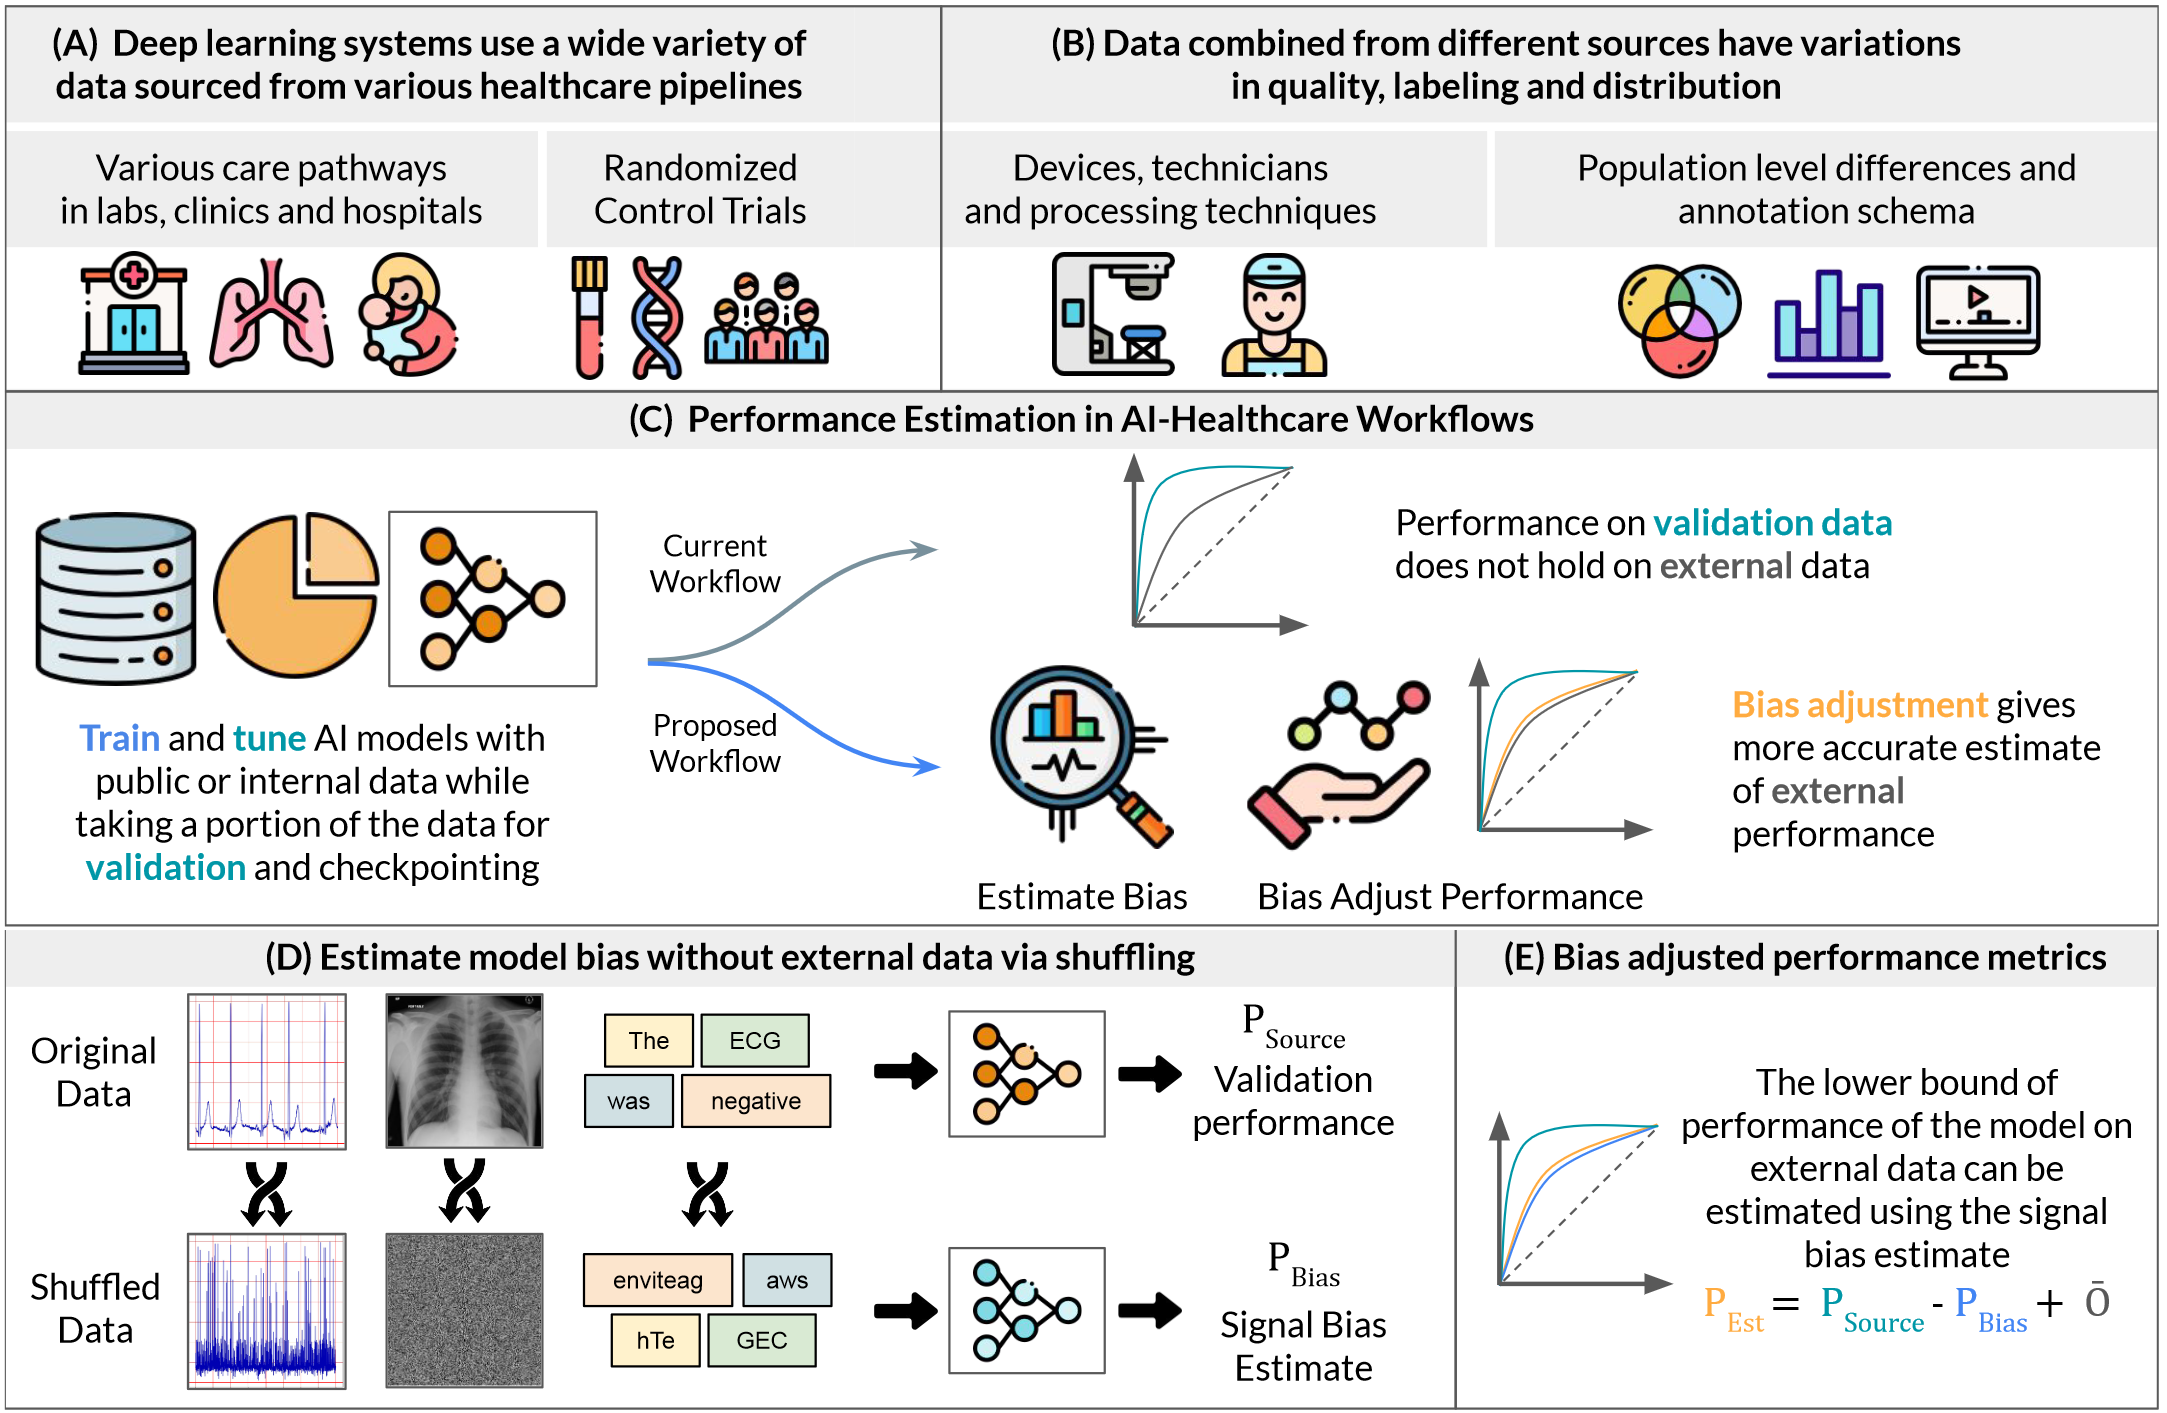
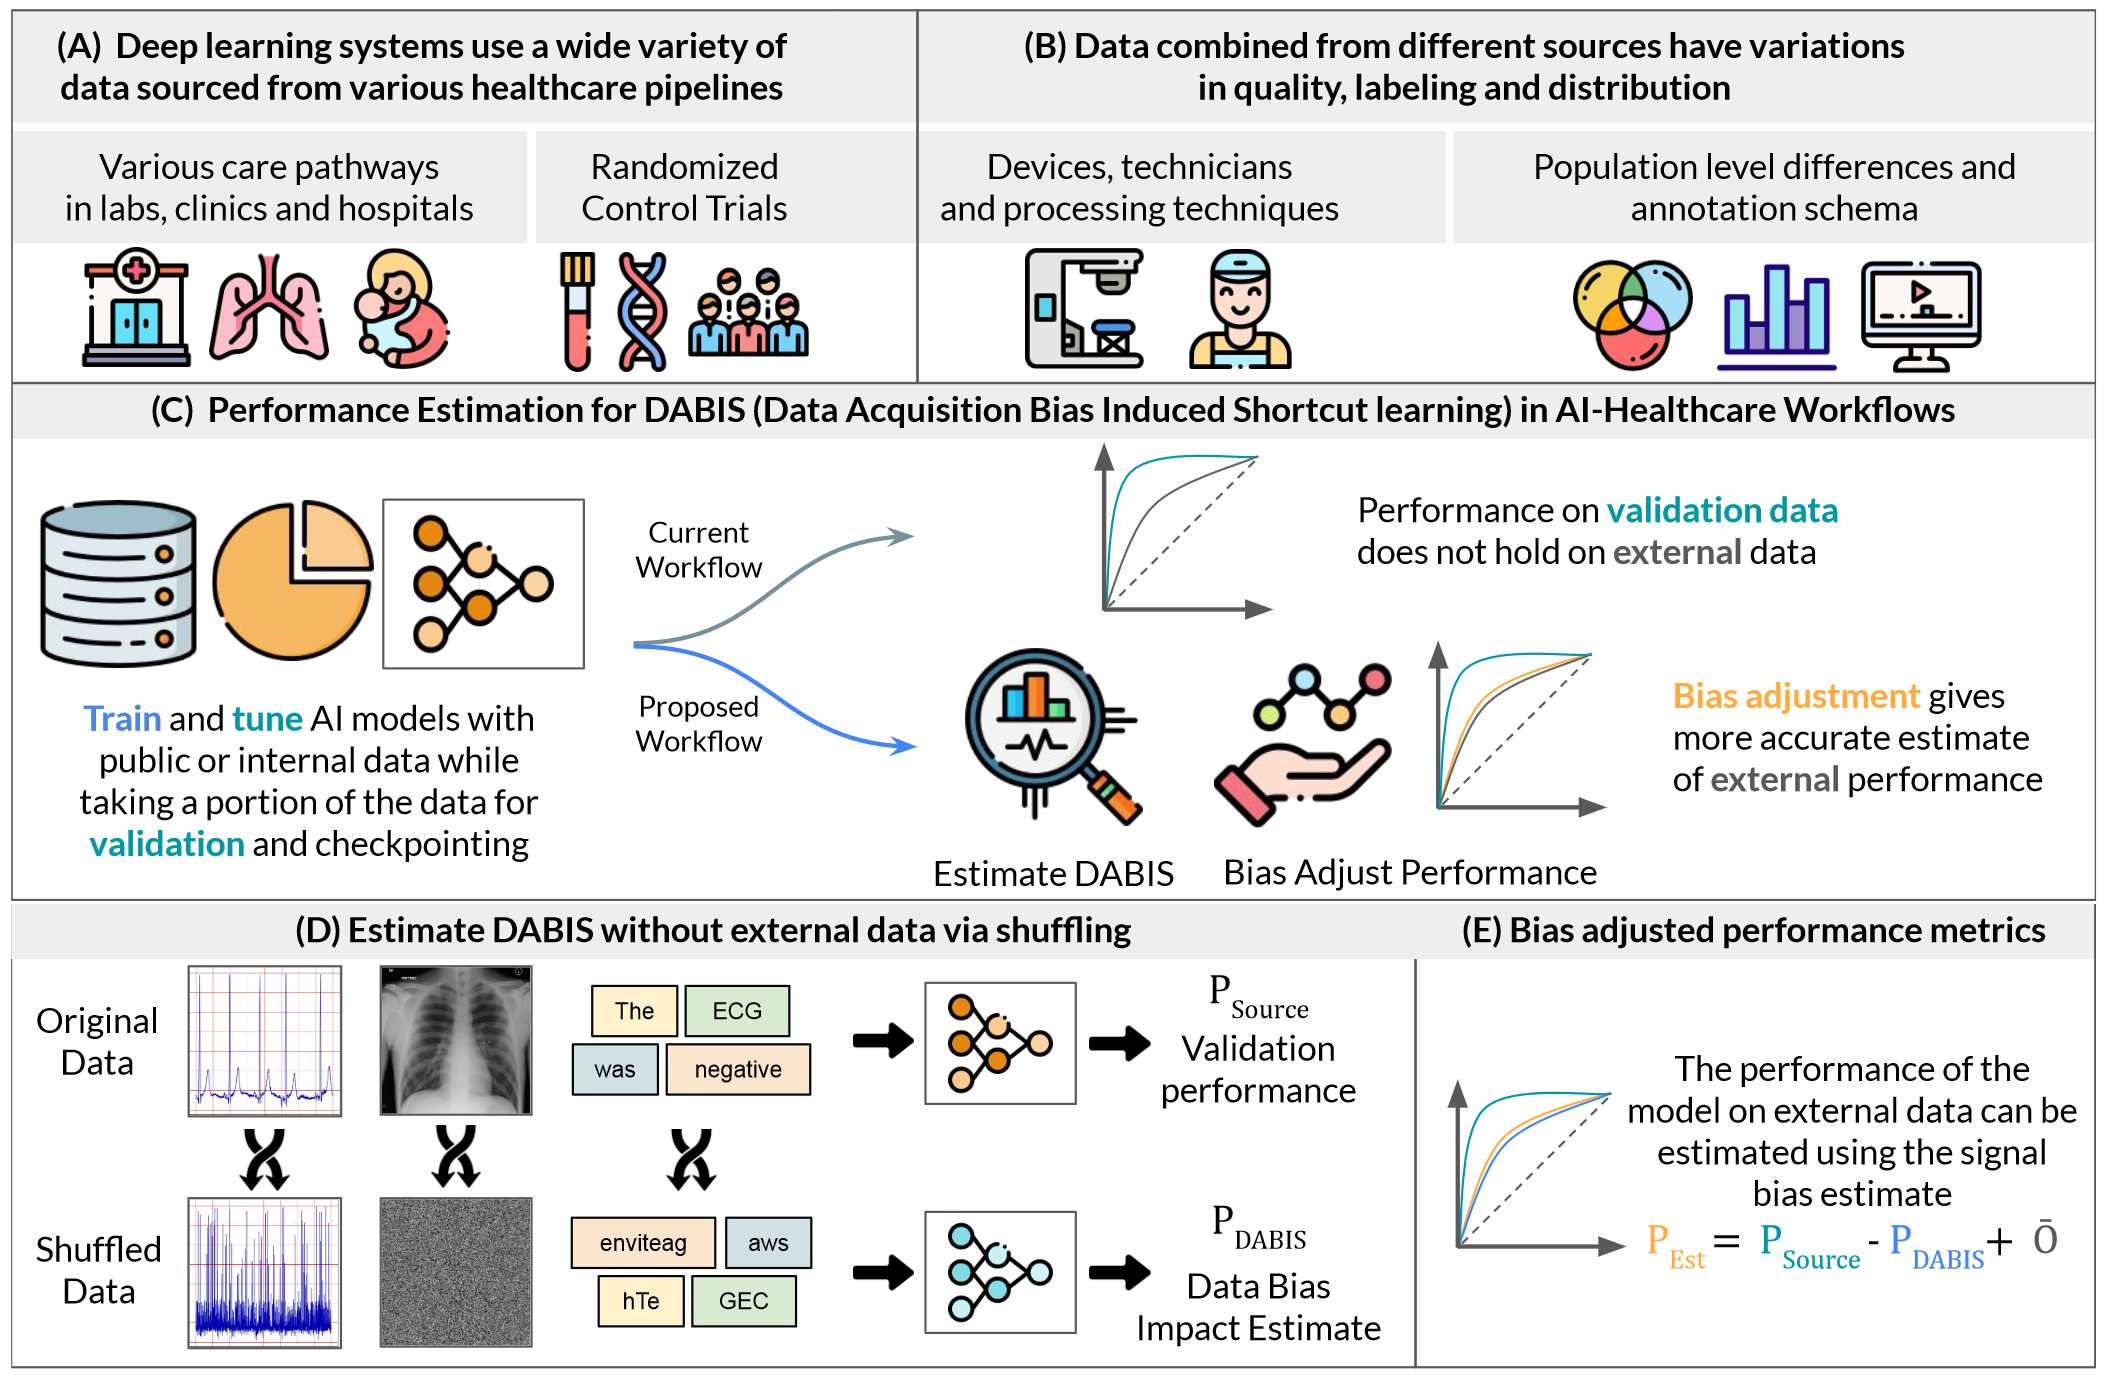
Fig and title

diff --git a/README.md b/README.md
@@ -1,12 +1,11 @@
-# Bias Analysis 
-## Data Sampling Biases and Shortcut learning in Medical AI: Estimating Performance on Unseen Datasets and New Standards for Model Evaluation and Dataset Publication
+## Shortcut Learning in Medical AI Hinders Generalization: Method for Estimating AI Model Generalization without External Data
 
-The manuscript for this work is presently under review. If you have questions regarding the research in the meantime please find us at https://mcintoshml.github.io/ 
+The manuscript for this work is presently under review. If you have questions regarding the research in the meantime please find us at https://mcintoshml.github.io/
 
-### Overview 
+### Overview
 ![Overview Diagram](docs/Diag.png)
 
-### Quick Start 
+### Quick Start
 * This codebase runs using `conda 4.10.3`,`Python 3.8.11`, `PyTorch 1.10.2`, `Torchvision 0.11.3`
 * See environment details in `environment.yml`
 ```bash
@@ -18,7 +17,7 @@ conda activate pytorch_venv
 
 ### Adapting the code
 * To adapt and use for custom datasets, the example setup provided in `example_code/`
-* All global variables can be changed from `constants.py` and the hyperparameters can be changed from within `engine/arg_handler.py` or via command Line. 
+* All global variables can be changed from `constants.py` and the hyperparameters can be changed from within `engine/arg_handler.py` or via command Line.
 
 ### Randomization as PyTorch Transform
 ```python
